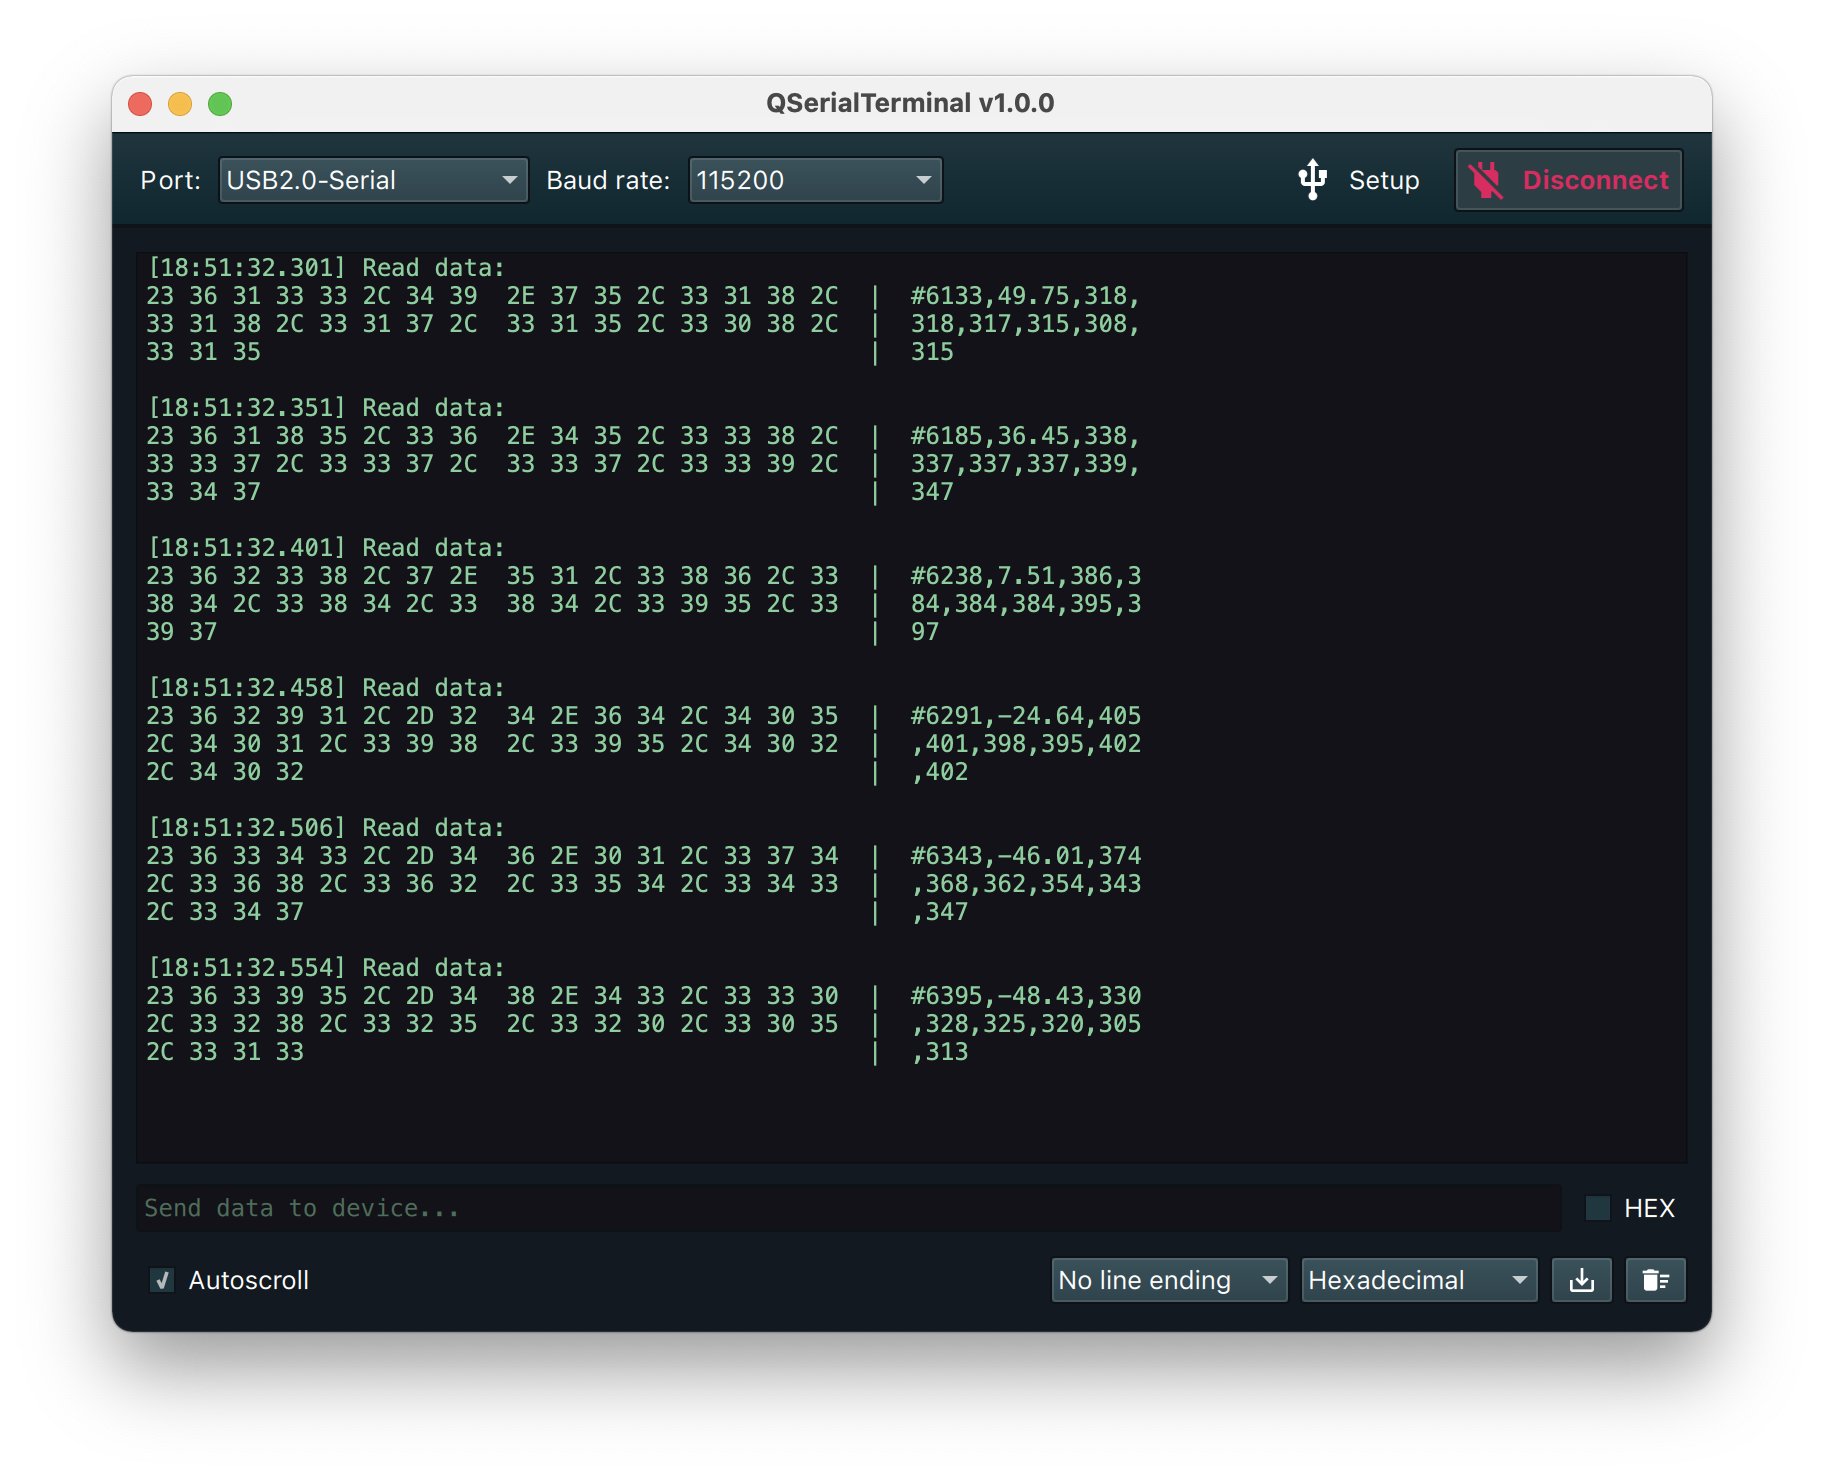
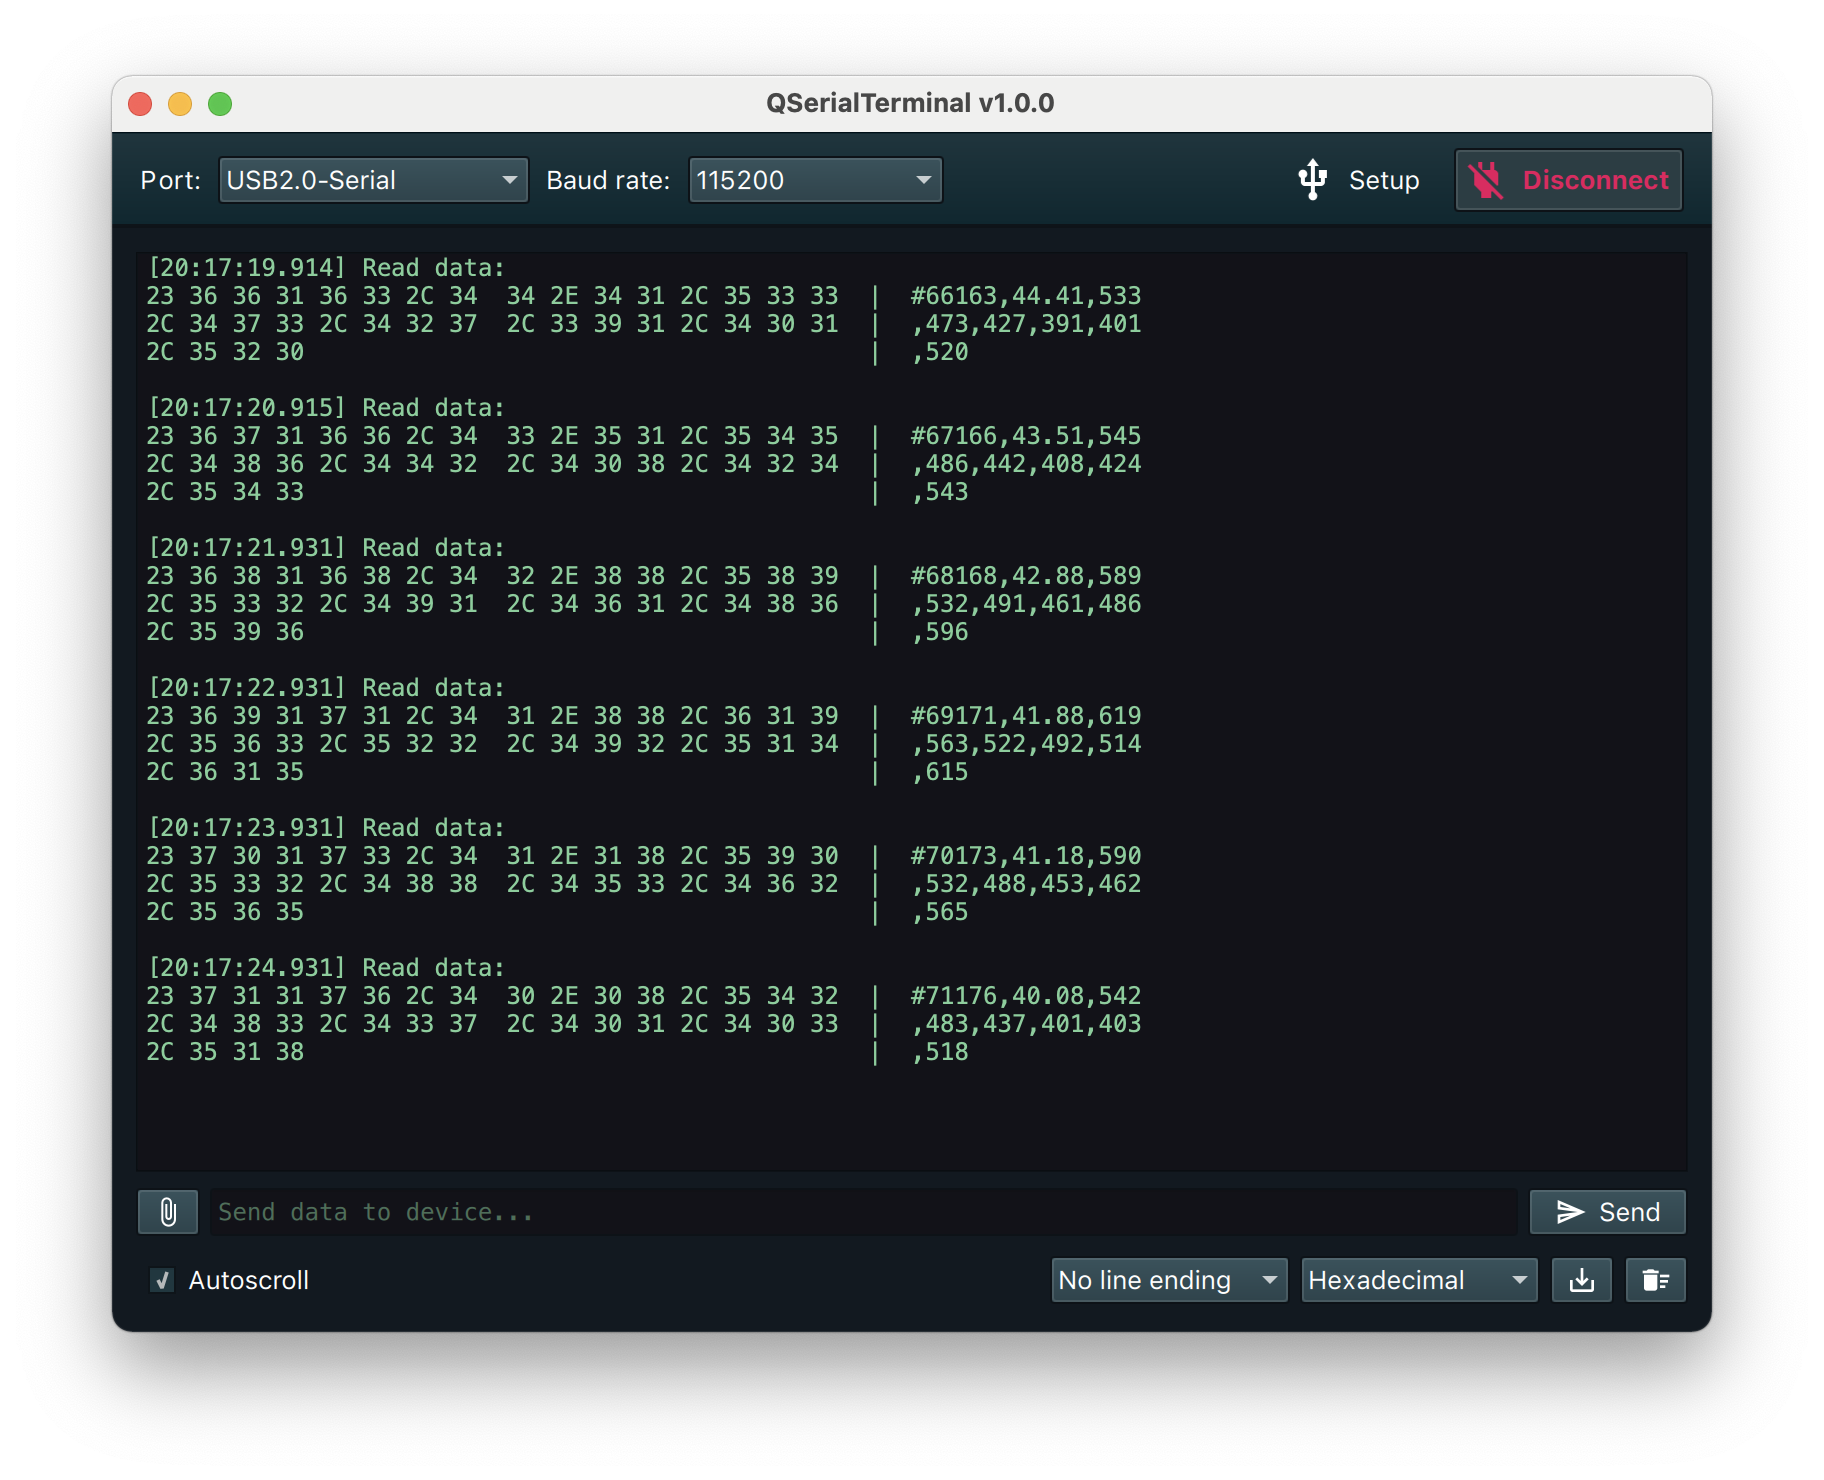
Add send file button

diff --git a/assets/qml/Widgets/Terminal.qml b/assets/qml/Widgets/Terminal.qml
@@ -72,8 +72,6 @@ Control {
     // Save settings
     //
     Settings {
-        property alias hex: hexCheckbox.checked
-        property alias echo: echoCheckbox.checked
         property alias autoscroll: autoscrollCheck.checked
         property alias vt100Enabled: textEdit.vt100emulation
         property alias lineEnding: lineEndingCombo.currentIndex
@@ -205,6 +203,19 @@ Control {
         RowLayout {
             Layout.fillWidth: true
 
+            //
+            // Send file button
+            //
+            Button {
+                height: 24
+                Layout.maximumWidth: 32
+                icon.color: palette.text
+                icon.source: "qrc:/icons/attach.svg"
+            }
+
+            //
+            // Send data textfield
+            //
             TextField {
                 id: send
                 height: 24
@@ -218,7 +229,7 @@ Control {
                 // Validate hex strings
                 //
                 validator: RegExpValidator {
-                    regExp: hexCheckbox.checked ? /^(?:([a-f0-9]{2})\s*)+$/i : /[\s\S]*/
+                    regExp: displayModeCombo.currentIndex === 1 ? /^(?:([a-f0-9]{2})\s*)+$/i : /[\s\S]*/
                 }
 
                 //
@@ -230,7 +241,7 @@ Control {
                 // Add space automatically in hex view
                 //
                 onTextChanged: {
-                    if (hexCheckbox.checked)
+                    if (displayModeCombo.currentIndex === 1)
                         send.text = Cpp_Serial_Console.formatUserHex(send.text)
                 }
 
@@ -251,29 +262,15 @@ Control {
                 }
             }
 
-            CheckBox {
-                text: "HEX"
-                id: hexCheckbox
-                opacity: enabled ? 1 : 0.5
-                checked: Cpp_Serial_Console.dataMode === 1
-                onCheckedChanged: {
-                    if (checked)
-                        Cpp_Serial_Console.dataMode = 1
-                    else
-                        Cpp_Serial_Console.dataMode = 0
-                }
-            }
-
-            CheckBox {
-                visible: false
-                text: qsTr("Echo")
-                id: echoCheckbox
-                opacity: enabled ? 1 : 0.5
-                checked: Cpp_Serial_Console.echo
-                onCheckedChanged: {
-                    if (Cpp_Serial_Console.echo != checked)
-                        Cpp_Serial_Console.echo = checked
-                }
+            //
+            // Send file button
+            //
+            Button {
+                height: 24
+                text: qsTr("Send")
+                icon.color: palette.text
+                onClicked: root.sendData()
+                icon.source: "qrc:/icons/send.svg"
             }
         }
 
@@ -315,8 +312,10 @@ Control {
                 model: Cpp_Serial_Console.displayModes()
                 currentIndex: Cpp_Serial_Console.displayMode
                 onCurrentIndexChanged: {
-                    if (currentIndex != Cpp_Serial_Console.displayMode)
+                    if (currentIndex != Cpp_Serial_Console.displayMode) {
                         Cpp_Serial_Console.displayMode = currentIndex
+                        Cpp_Serial_Console.dataMode = currentIndex
+                    }
                 }
             }
 

diff --git a/src/Serial/Console.cpp b/src/Serial/Console.cpp
@@ -530,7 +530,7 @@ void Console::onDataSent(const QByteArray &data)
     header = dateTime.toString("[HH:mm:ss.zzz] ") + "Written data:\n";
 
     if (!data.isEmpty())
-        append(header + dataToString(data) + "\n");
+        append(header + dataToString(data) + "\n\n");
 }
 
 /**
